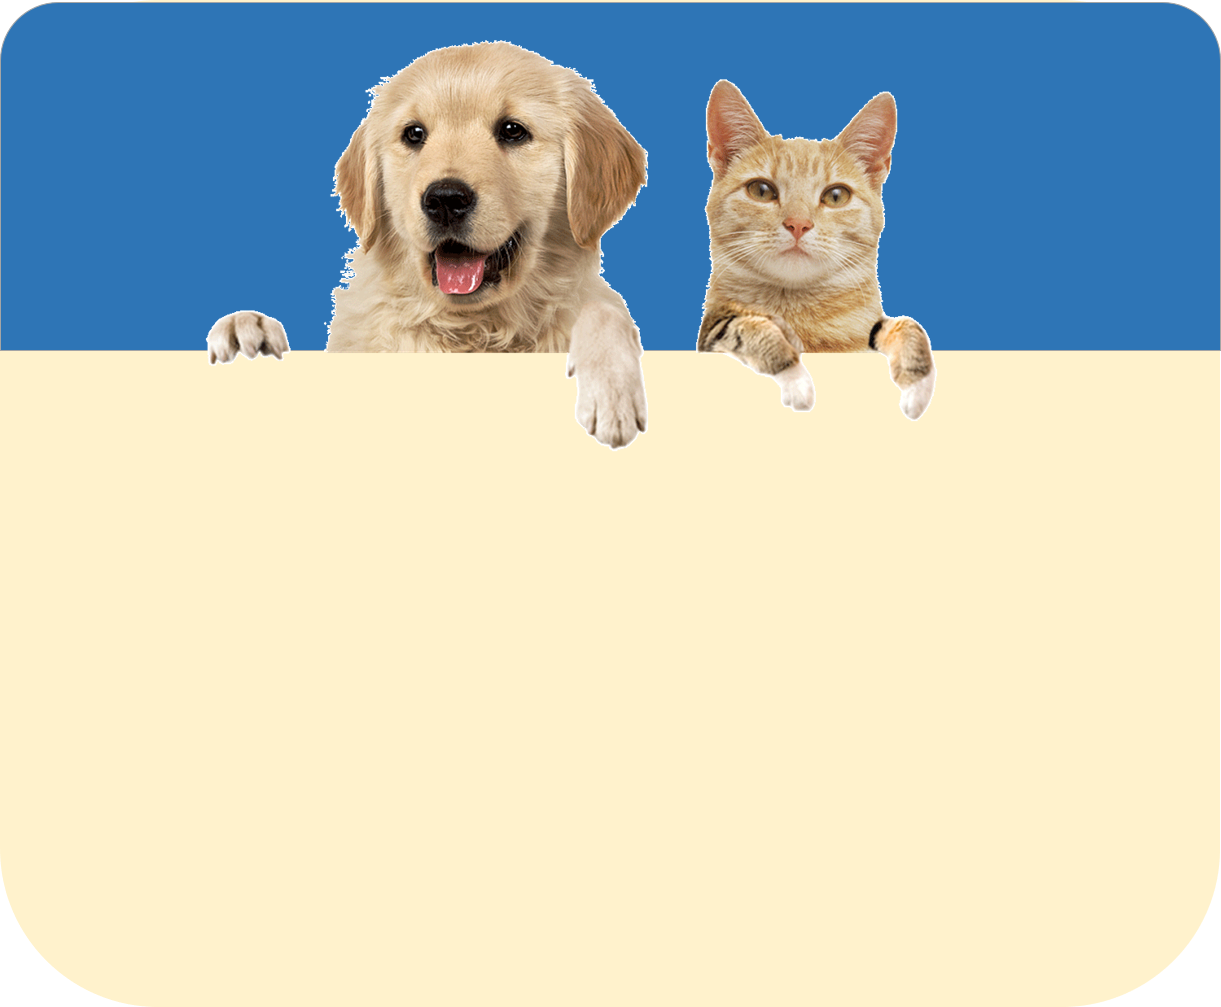
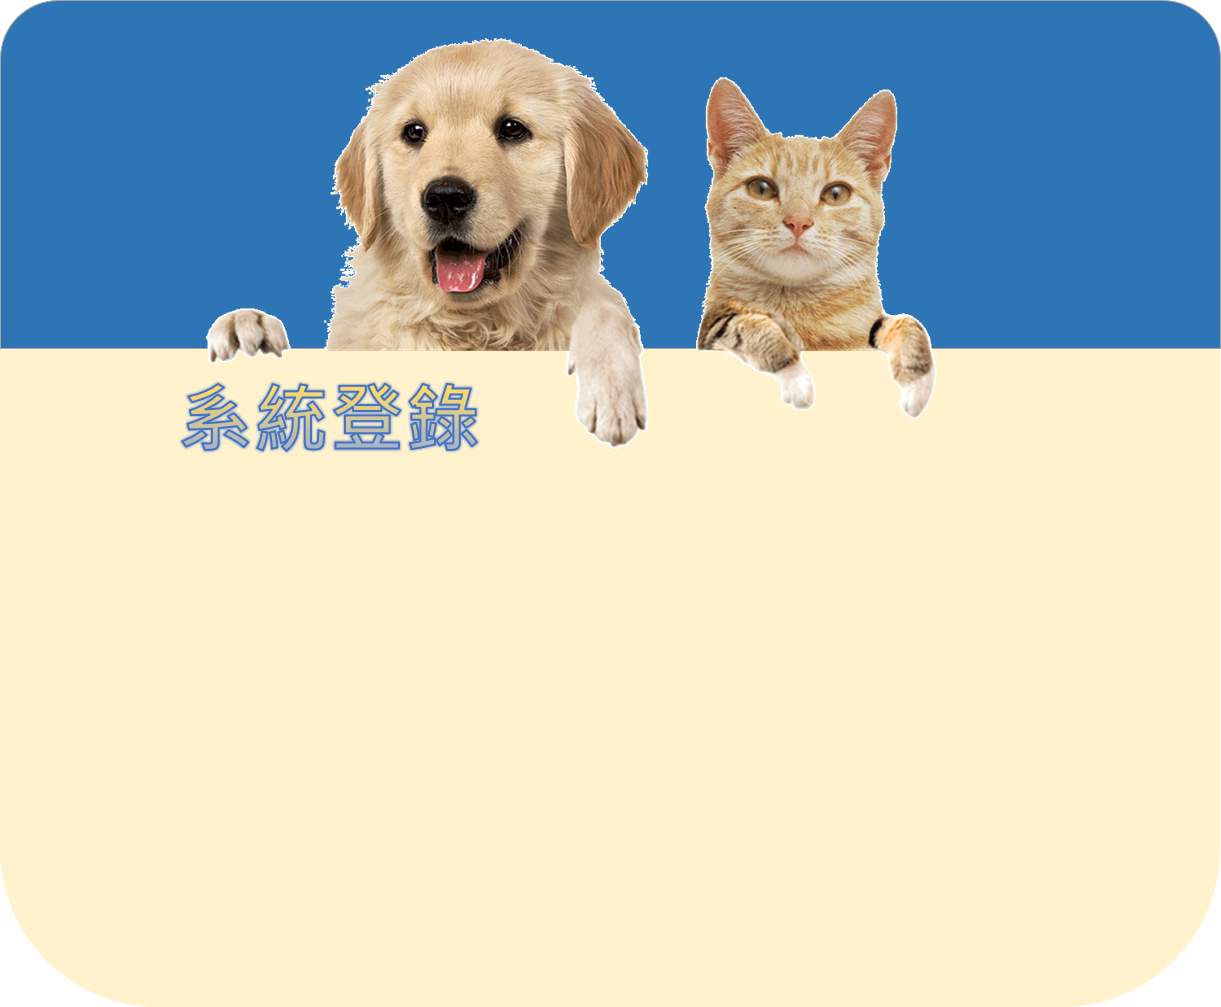
login

diff --git a/HTML/index.html b/HTML/index.html
@@ -1,15 +1,58 @@
-<html>
-    <body style="background-color: antiquewhite;">
-        <center>
-            <img src="圖片1.png" alt="" style="height: 500px;width: 600px;margin-top: 200px;">
-            <h1 style="margin-top:-320px;margin-left: -300px;">系統登入</h1>
-            <h2 style="margin-top:-10px;margin-left: -300px;color: rgb(127, 96, 0);">使用者帳號:</h3>
-            <input style="margin-top:-10px;width: 400px;height: 30px;" type="text" name="欄位名稱">
-            <h2  style="margin-top:10px;margin-left: -300px;color: rgb(127, 96, 0);">使用者密碼:</h3>
-            <input style="margin-top:-10px;margin-bottom: 20px; width: 400px;height: 30px;"type="text" name="欄位名稱"><br>
-            <a style="text-decoration:none;color: black;" href="#">忘記密碼</a>
-            <a style="margin-left: 200px;text-decoration:none;color: black;" href="#">註冊帳號</a><br>
-            <button style="margin-top: 10px;border-radius: 10px;background-color: lightskyblue; color:black;font-size:x-large;"><b>登入</b></button>
-        </center>
-    </body>
+<!DOCTYPE html>
+<html lang="en">
+<head>
+    <meta charset="UTF-8">
+    <meta http-equiv="X-UA-Compatible" content="IE=edge">
+    <meta name="viewport" content="width=device-width, initial-scale=1.0">
+    <title>貓狗領養系統</title>
+    <style>
+        body{
+            background-color: antiquewhite;
+        }
+        img{
+            height: 500px;
+            width: 600px;
+            margin-top: 200px;
+        }
+        input{
+            margin-top:-10px;
+            margin-bottom: 10px;
+            width: 400px;
+            height: 30px;
+        }
+        h1{
+            margin-top:-290px;
+            margin-left: -300px;
+        }
+        h2{
+            margin-top: 5px;
+            margin-left: -300px;
+            color: rgb(127, 96, 0);
+        }
+        a{
+            text-decoration:none;
+            color: black;
+        }
+        button{
+            margin-top: 10px;
+            border-radius: 10px;
+            background-color: lightskyblue;
+            color:black;
+            font-size:x-large;
+        }
+    </style>
+</head>
+<body>
+    <center>
+        <img src="圖片1.png" alt="">
+        <h1></h1>
+        <h2>使用者帳號:</h3>
+        <input type="text" name="欄位名稱">
+        <h2>使用者密碼:</h3>
+        <input type="text" name="欄位名稱"><br>
+        <a href="#">忘記密碼</a>
+        <a style="margin-left: 200px;" href="#">註冊帳號</a><br>
+        <button><b>登入</b></button>
+    </center>
+</body>
 </html>
